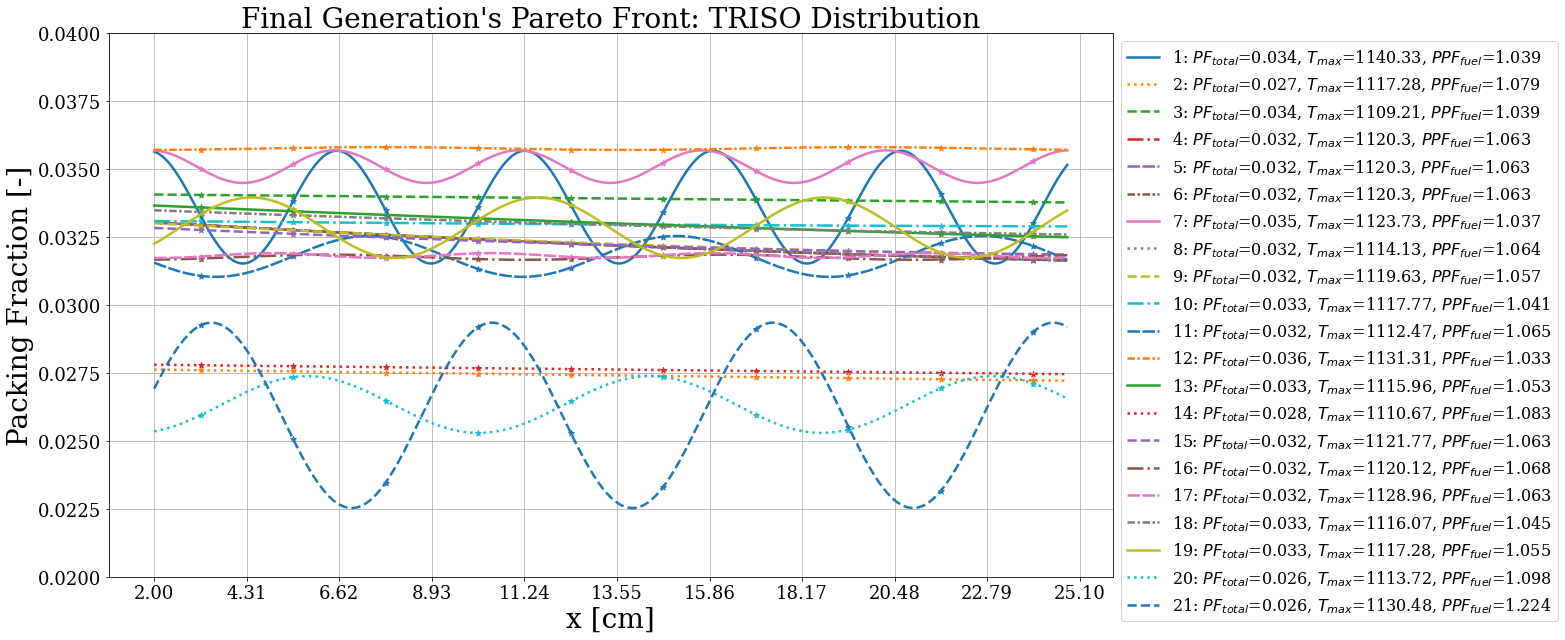
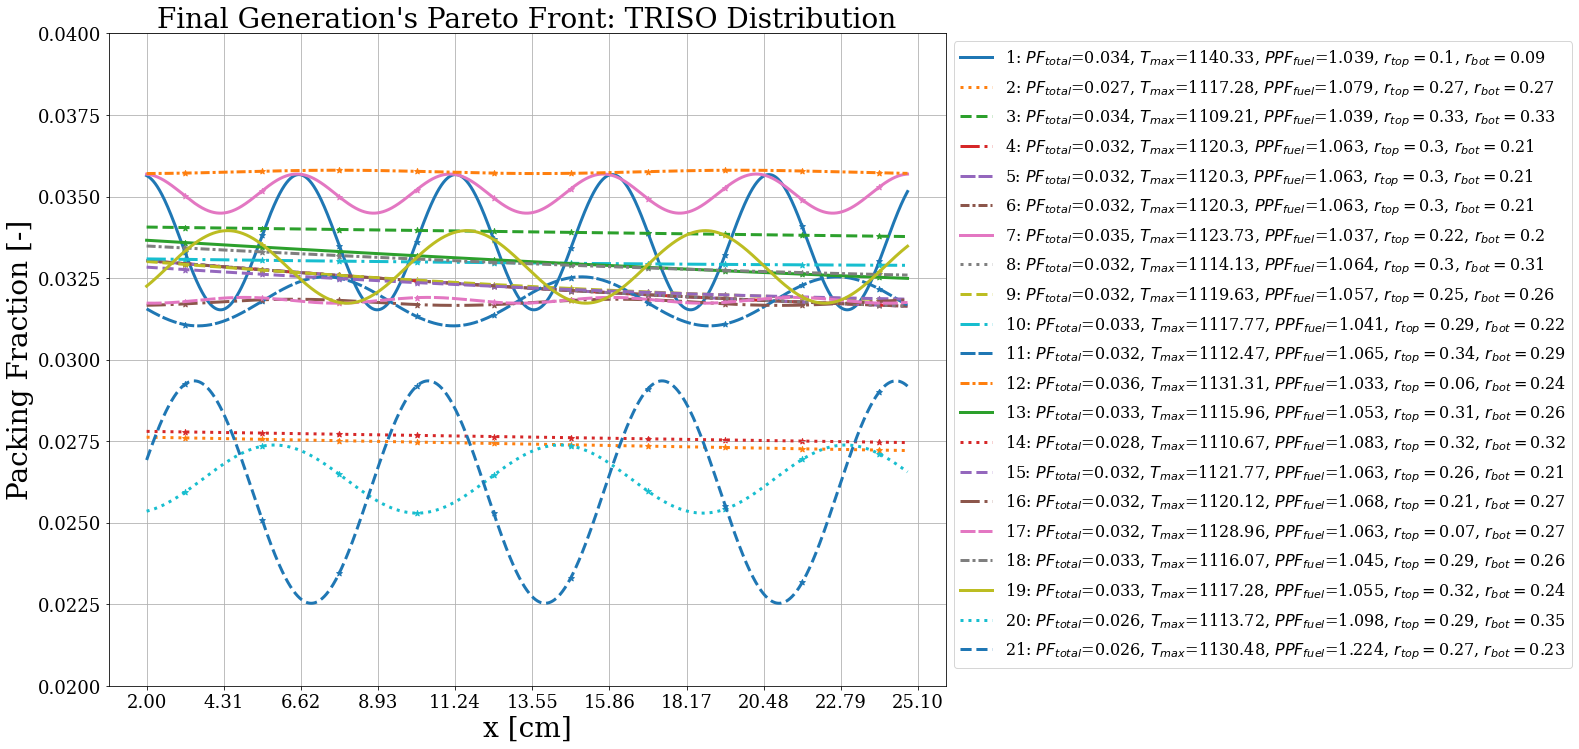
edits

Changed region(s): [[0.0, 0.0, 1.0, 1.0], [0.3681, 0.125, 0.3987, 0.1875], [0.0307, 0.125, 0.0613, 0.1875]]

diff --git a/docs/ahtr_rollo_slab.tex b/docs/ahtr_rollo_slab.tex
@@ -1811,8 +1811,8 @@ confirming that simulation p-3b is sufficiently converged by generation 8.
 Figure \ref{fig:slab-obj-3-3d-all} shows a plot of the final generation's reactor 
 models' $PF_{total}$ against $T_{max}$ against $PPF_{fuel}$; 
 crosses indicate the reactor models that fall on the Pareto front.
-Figure \ref{fig:slab-obj-3-distr-all} shows the 21 TRISO distributions and their
-total radius ($r_{top}, r_{bot}$) in the final generation that fall on the Pareto 
+Figure \ref{fig:slab-obj-3-distr-all} shows the 21 TRISO distributions and their 
+$r_{top}$ and $r_{bot}$ values in the final generation that fall on the Pareto 
 front. 
 \begin{figure}[htbp!]
     \begin{subfigure}{\textwidth}
